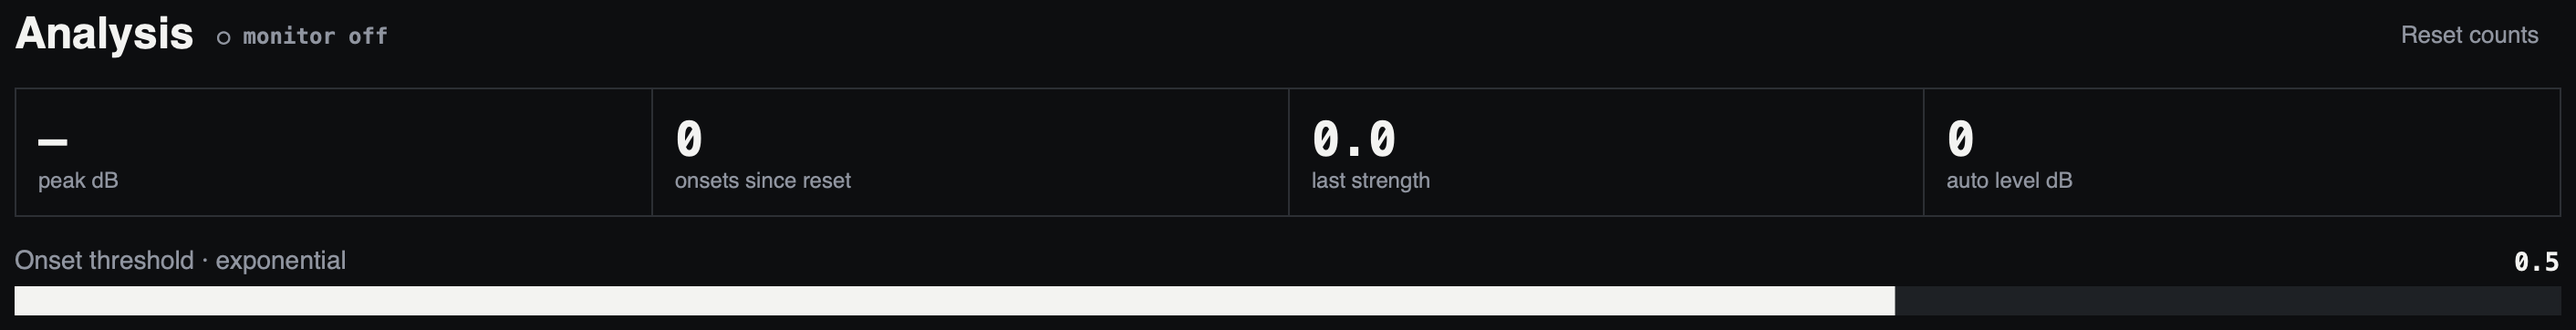
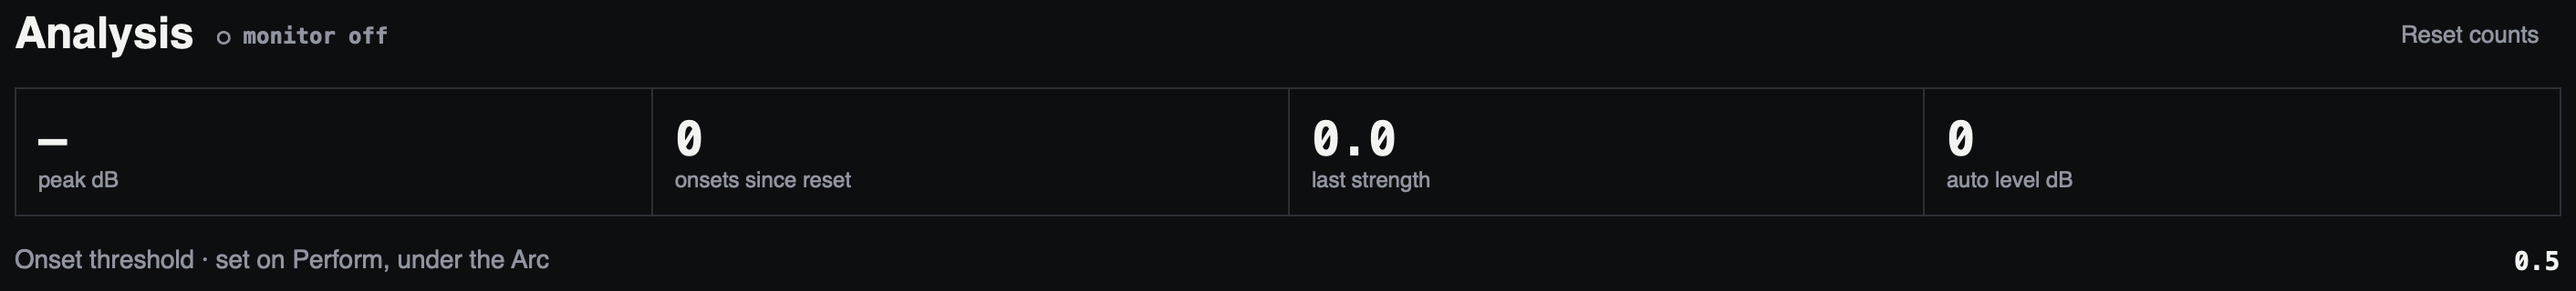
Perform: the onset threshold where the Looper level was; the looper at unity
The Looper level (Looper.masterAmp, 0.7 to start) set the loop, the cutter
and the grains into the Loop chain after their limiter, a level the Loop
strip after the chain already sets. It is gone: \looperMaster plays at unity
into its brick-wall Limiter (0.95, as before), with no amp control, and its
MIDI target, its line in the action log and its wiring went with it. The
Loop strip starts at -3 dB instead, so the mix is as loud as before and a hot
take with the drums stays off the master's clip (nrt-drums: 1388 samples at
0.98 at 0 dB, none at -3).

In its place under the Arc, the ONSET THRESHOLD bar, with the last onset's
strength at its caption's right: a nudge to it is made while playing. The
status band above already shows the input's level and the automatic level.
The threshold is set there alone; Setup › Analysis keeps its readouts and
shows the threshold's value, saying where it is set. Its MIDI target names
Perform. The Calibrate step, the manual, routing.md, midi-maps.md and the
eight screenshots say so.

Re-baselined: test-synthdefs' looperMaster graph (no amp). The looper's MIDI
targets are 45 (test-miditargets).

diff --git a/docs/manual.md b/docs/manual.md
@@ -205,7 +205,7 @@ its own when nobody touches it (one at rest can read 68, 69, 68). So every
 knob or pedal on a CC has one step of hysteresis unless its mapping says
 otherwise: a move counts if it is two steps or more, or one step on in the
 direction of the last. The control stays within a step of the pedal, and a
-level set with Looper level is not taken back by the next hop. The
+value set with the pedal is not taken back by the next hop. The
 Knobs row of Setup's MIDI map sets the default.
 
 **keys-and-knobs**, for keyboards and knob boxes, on any input:
@@ -455,7 +455,7 @@ silent so the room can play into the hole, coming back **on a loop downbeat**.
 
 ![Perform's actions](images/perform-actions.png)
 
-*Fig: Perform's actions with their keys. Under them, how many loops a break lasts and how many bars a dissolve takes, then the Arc and the looper's level.*
+*Fig: Perform's actions with their keys. Under them, how many loops a break lasts and how many bars a dissolve takes, then the Arc and the onset threshold, with the last onset's strength.*
 
 The hole opens the instant you stomp — the mute is not quantised, so it lands
 exactly where your foot did. Only the **resume** is on the grid: it waits out
@@ -492,7 +492,7 @@ Sound, FX, Drums, Synth and Setup) plus Calibrate, and a footer.
 
 ![The Perform view](images/perform.png)
 
-*Fig: The Perform view with a take playing: 7+7+7+8/8 at 103.2 BPM in Dm, the playhead in bar 2, beat 3, which the count under the state block shows as group 2 of 2+2+3. Under the status band, a column per layer, then the actions, the Arc and the looper's level.*
+*Fig: The Perform view with a take playing: 7+7+7+8/8 at 103.2 BPM in Dm, the playhead in bar 2, beat 3, which the count under the state block shows as group 2 of 2+2+3. Under the status band, a column per layer, then the actions, the Arc and the onset threshold.*
 
 - **The top bar**, on every view: the logo, a Möbius loop whose twist
   travels round once a pass while the loop plays (and stands when it
@@ -524,7 +524,7 @@ Sound, FX, Drums, Synth and Setup) plus Calibrate, and a footer.
 
 | View | Key | What lives there |
 |---|---|---|
-| **Perform** | 1 | A column per layer — **Loop** (forward/reverse, feedback, length, ×2), **Cutter** (on/off, Mix/Insert/Gate, the arc-driven parameter with its tick, and its voices by name), **Grains** (on/off, morph, level, and their pitch and window), each filled in its colour while it plays and outlined while it is off, **Effects** (each chain's effects that are on, by name, in the effects colour), **Drums** (on/off, the kit, **New loop**, and the onset notes' switch and Chance) and **Synth** (on/off, Cutoff, Position, Random sound) — then the **actions** (Trigger, Stop, Break, Next reading, Dissolve, Rec next loop, Undo, Clear, each with its key and footswitch), Break loops and Dissolve loops, the **Arc** (the expression pedal's bar) and **Looper level**, and, under the layers, the **levels** of every strip |
+| **Perform** | 1 | A column per layer — **Loop** (forward/reverse, feedback, length, ×2), **Cutter** (on/off, Mix/Insert/Gate, the arc-driven parameter with its tick, and its voices by name), **Grains** (on/off, morph, level, and their pitch and window), each filled in its colour while it plays and outlined while it is off, **Effects** (each chain's effects that are on, by name, in the effects colour), **Drums** (on/off, the kit, **New loop**, and the onset notes' switch and Chance) and **Synth** (on/off, Cutoff, Position, Random sound) — then the **actions** (Trigger, Stop, Break, Next reading, Dissolve, Rec next loop, Undo, Clear, each with its key and footswitch), Break loops and Dissolve loops, the **Arc** (the expression pedal's bar) and the **onset threshold** with the last onset's strength, and, under the layers, the **levels** of every strip |
 | **Sound** | 2 | The **Cutter** (preset, voices, procedure, cut synth, ratio, parameters, level, pan, voice effects) beside the **Grains** (preset, Blend, Pitch, Grain, Read position, grain window) |
 | **FX** | 3 | The **effects** chains (click a block to edit it, its square to switch it) and their sounds |
 | **Drums** | 4 | The **drums** (step sequencer, timing, kits, mix) |
@@ -612,9 +612,13 @@ The controls, by view:
   (the [automatic level](#the-automatic-level)), but a tap that far under the
   input is usually the wrong channel or a gain left down, and its hiss is turned
   up with it: fix the channel or the gain. See [docs/routing.md](routing.md).
-- **Looper level** *(Perform, under the Arc)* — the looper's own level: the loop, the
-  cutter and the grains together, after their limiter (0–1, starts at 0.7).
-  The whole mix's last fader is **Master** under Levels, on Perform.
+- **Onset threshold** *(Perform, under the Arc)* — how sharp an attack must be
+  to count as an onset, with the last onset's strength beside it. See [Onset
+  analysis](#onset-analysis). The loop, the cutter and the grains go into the
+  Loop chain at the level they were played, through a limiter that holds their
+  sum under −0.45 dBFS. Their level in the mix is the **Loop** strip under
+  Levels, which starts at −3 dB, so a hot take with the drums stays clear of
+  the master's clip; the whole mix's last fader is **Master**.
 - **Morph** *(Perform's Grains column)* — between frozen drone (0) and pulsed scan
   locked to the detected pulse (1). Mirrors the Grains' Morph on Sound (CC 118 in the
   keys-and-knobs map); moving either updates both. Sound holds the rest of the layer.
@@ -732,19 +736,20 @@ ghost onsets or misses real hits, meter detection fails and the loop drops to th
 anchored fallback meter. Straight 4/4 takes used to come out 7/8 that way, and
 also when the first hit came well after the record press; a second fit over the
 whole loop now reads most of those ([How meter detection
-works](#how-meter-detection-works)). There is nothing to tune while playing: the tap's level is
-followed automatically (below), the **onset threshold** stays at its default,
-and when a reading is still wrong, the next-reading switch and Bars by hand fix
-it. Perform shows the lamp in the status band; the rest is on Setup's Analysis
-page (`scripts/gui-analysis.scd`).
+works](#how-meter-detection-works)). Little needs tuning while playing: the
+tap's level is followed automatically (below), the **onset threshold** works
+at its default, and when a reading is still wrong, the next-reading switch and
+Bars by hand fix it. For the room or the pedal that still needs a nudge,
+Perform has the threshold under the Arc, and the lamp in the status band; the
+rest is on Setup's Analysis page (`scripts/gui-analysis.scd`).
 
 ![Onset analysis on Setup's Analysis page](images/onsets.png)
 
-*Fig: The top of Setup's Analysis page: the input's peak, the onsets counted, the last one's strength and the automatic level, and the onset threshold.*
+*Fig: The top of Setup's Analysis page: the input's peak, the onsets counted, the last one's strength and the automatic level, and the onset threshold's value.*
 
 ![Setup's Analysis page](images/setup-analysis.png)
 
-*Fig: Setup's Analysis page: the onset threshold, the onset notes, the pitch range, the fallback meter, Bars by hand and the export.*
+*Fig: Setup's Analysis page: the readout, the onset threshold's value, the onset notes, the pitch range, the fallback meter, Bars by hand and the export.*
 
 On **Perform**:
 
@@ -754,6 +759,17 @@ On **Perform**:
   **automatic level**: `auto +6 dB` is how far the analysis turns the tap up
   (or down) to hear it at one level; `auto 0 dB` until something has been
   played. The threshold joins it (`· thr 0.42`) only when it is off its default.
+- **Onset threshold** (0.01–2.0, default **0.5**), under the Arc, also a MIDI
+  target — meant to be left at its default: with the automatic level, 0.5
+  works at any tap level. Change it only if the lamp flashes *between* notes
+  at the default (raise it) or a hit leaves it dark (lower it). Live on both
+  the monitor and a running recorder. The travel is **exponential**: a nudge
+  of 1% of the bar moves the threshold by about 5% of wherever it currently
+  is, so it feels the same at 0.05 as at 1.0; the default 0.5 sits at about
+  three quarters across. Beside its caption, **last strength**: the strength of
+  the most recent onset (below). It is not on the threshold's scale: the
+  threshold decides whether an attack counts, the strength says how loud the
+  one that counted was.
 
 In **Setup's Analysis page**:
 
@@ -767,13 +783,7 @@ In **Setup's Analysis page**:
   accent test and the onset notes' velocities see: the RMS of the hit, from
   40 ms before the detector fired to 30 ms after), and the **auto level** in dB.
   **Reset counts** starts the count again.
-- **Onset threshold** (0.01–2.0, default **0.5**), also a MIDI target — meant to
-  be left at its default: with the automatic level, 0.5 works at any tap level.
-  Change it only if the lamp flashes *between* notes at the default (raise it)
-  or a hit leaves it dark (lower it). Live on both the monitor and a running
-  recorder. The travel is **exponential**: a nudge of 1% of the slider moves the
-  threshold by about 5% of wherever it currently is, so it feels the same at 0.05
-  as at 1.0; the default 0.5 sits at about three quarters across.
+- **Onset threshold** — its value, and where it is set: on Perform.
 - **Onset notes** — plays the loop's onsets on the onset kit. See
   [Onset notes](#onset-notes) below.
 - **Pitch range · Hz** — 30–2000: the band the pitch tracker believes.
@@ -1474,7 +1484,7 @@ has to be true in the room, and what to do. The right column shows this rig's
    the interface's input gain until the loudest hit comes in between -12 and
    -3 dBFS. Too quiet and soft notes go unnoticed; clipped and every hit looks
    the same.
-3. **Onset threshold.** Set it on Setup's Analysis page while you play: raise
+3. **Onset threshold.** Set it on Perform, under the Arc, while you play: raise
    it until the lamp lights only on real hits, lower it until none are
    missing. Then press **Done**.
 4. **Overdub round trip.** Optional on a Mac, where megalooper starts from

diff --git a/docs/routing.md b/docs/routing.md
@@ -79,7 +79,7 @@ in, as they know the instrument's as `guitar`.
 | Value | What it corrects | How you get it |
 | --- | --- | --- |
 | Overdub latency (`latencyMs`) | How far back an overdub is written, so it lands where you played it. 0 to 100 ms | On a Mac, the round trip the audio device reports, plus the effects' delay. Checked by the Calibrate view's round-trip step, or by ear ("Overdub latency" on Setup's Rig page) |
-| Onset threshold (`onsetThreshold`) | How sharp an attack must be to count as an onset. Defaults to 0.5, which is meant to be left alone: the analysis follows the tap's level on its own ([the automatic level](manual.md#the-automatic-level)) | The Calibrate view's threshold step (optional), on Setup's Analysis page |
+| Onset threshold (`onsetThreshold`) | How sharp an attack must be to count as an onset. Defaults to 0.5, which is meant to be left alone: the analysis follows the tap's level on its own ([the automatic level](manual.md#the-automatic-level)) | The Calibrate view's threshold step (optional), or under the Arc on Perform |
 | Onset notes' offset (`onsetNoteOffsetMs`) | When the onset notes are played, so they sit on the loop. Defaults to 0 | By ear ("Offset" under onset notes on Setup's Analysis page) |
 | Chain offset (`chainRecOffsetMs`) | Where **Rec next loop** starts recording, so a chained loop is not rotated in its buffer. `saSystem` has 20 ms | Measured with `scripts/check-chain-align.scd`; the Calibrate view does not measure it |
 

diff --git a/docs/midi-maps.md b/docs/midi-maps.md
@@ -81,7 +81,7 @@ say `guitar` in their ids, as in `sa.level.guitar`.
 - `dissolve`, `dissolveBars` (Dissolve loops: the id is from when it counted
   bars), `breakLoops`, `sessionRecording`
 - `bbcut`, `bbcutMode`, `granular`
-- `intensity`, `feedback`, `onsetThreshold`, `masterAmp`
+- `intensity`, `feedback`, `onsetThreshold`
 
 **The Grains**, `looper.` and: `granularMorph`, `granularAmp`,
 `granularPitch`, `granularDetune`, `granularSize`, `granularDensity`,
